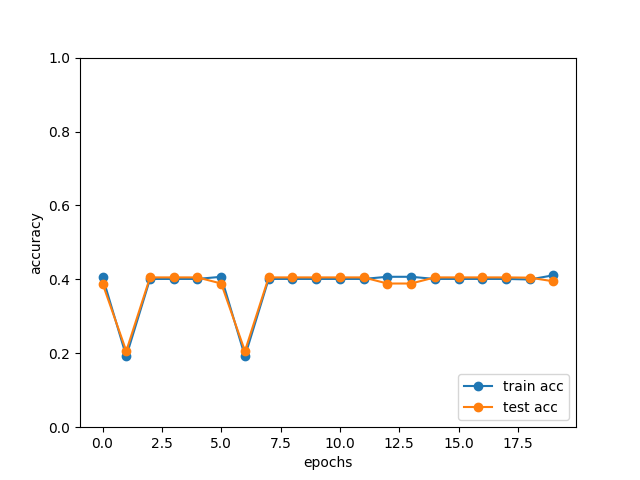
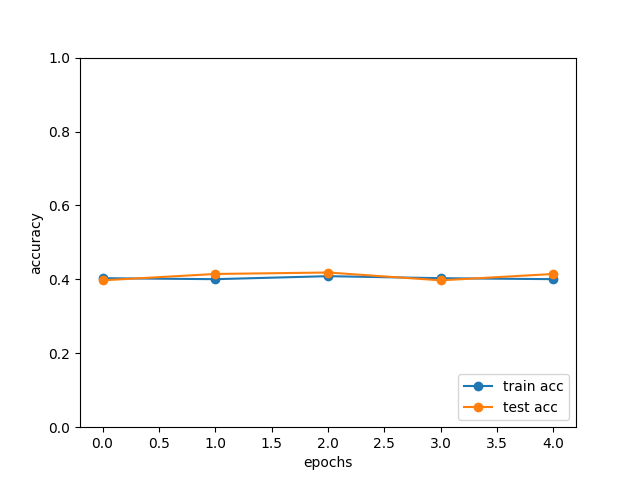
Add under 60%

diff --git a/Nakka0925/train_neuralnet.py b/Nakka0925/train_neuralnet.py
@@ -1,4 +1,5 @@
 # coding: utf-8
+from cgi import test
 import sys, os
 import time
 from cv2 import THRESH_TRIANGLE
@@ -10,6 +11,7 @@ from datasets import data_gain
 import matplotlib.pyplot as plt
 #from mnist import load_mnist
 from two_layer_net import TwoLayerNet
+from common.optimizer import SGD, Adam
 
 # データの読み込み
 #(x_train, t_train), (x_test, t_test) = load_mnist(normalize=True, one_hot_label=True)
@@ -17,7 +19,9 @@ file_list, label_list = data_gain()
 
 file_list = np.array(file_list)
 label_list = np.array(label_list)
-#print(file_list.shape)
+file_list = file_list.reshape(7550, 36864)
+
+print(file_list.shape)
 
 #0.0 ~ 1.0 に正規化
 file_list = [file.astype(float)/255.0 for file in file_list]
@@ -29,11 +33,14 @@ t_train = np.array(t_train)
 x_test = np.array(x_test)
 t_test = np.array(t_test)
 
-network = TwoLayerNet(input_size=36864, hidden_size=50, output_size=3)
+print(t_train[:30])
 
-epoch = 20
 
-learning_rate = 0.1
+network = TwoLayerNet(input_size=36864, hidden_size=100, output_size=3)
+
+epoch = 30
+
+learning_rate = 0.01
 
 train_loss_list = []
 train_acc_list = []
@@ -49,10 +56,15 @@ for i in range(epoch):
     #grad = network.numerical_gradient(x_batch, t_batch)
     grad = network.gradient(x_train, t_train)
     
-    # 更新
-    for key in ('W1', 'b1', 'W2', 'b2'):
+    """
+     更新
+    #for key in ('W1', 'b1', 'W2', 'b2'):
         network.params[key] -= learning_rate * grad[key]
-    
+    """
+
+    test = Adam()
+
+    network.params = test.update(network.params, grad)
 
     #if i % train_size == 0:
     train_acc = network.accuracy(x_train, t_train)
@@ -76,7 +88,7 @@ plt.xlabel("epochs")
 plt.ylabel("accuracy")
 plt.ylim(0, 1.0)
 plt.legend(loc='lower right')
-plt.savefig("accuracy_nonbath.png")
+plt.savefig("accuracy_flat.png")
 
 plt.clf()
 
@@ -85,4 +97,4 @@ x = np.arange(len(train_loss_list))
 plt.plot(x, train_loss_list, label='train loss')
 plt.xlabel("epochs")
 plt.ylabel("loss")
-plt.savefig("loss_nonbach.png")
+plt.savefig("loss_flat.png")

diff --git a/Nakka0925/test.py b/Nakka0925/test.py
@@ -1,0 +1,51 @@
+# coding: utf-8
+import os
+import sys
+sys.path.append(os.pardir)  # 親ディレクトリのファイルをインポートするための設定
+import numpy as np
+import matplotlib.pyplot as plt
+from common.multi_layer_net_extend import MultiLayerNetExtend
+from common.trainer import Trainer
+from sklearn.model_selection import train_test_split
+from datasets import data_gain
+
+file_list, label_list = data_gain()
+
+file_list = np.array(file_list)
+label_list = np.array(label_list)
+file_list = file_list.reshape(7550, 36864)
+
+#0.0 ~ 1.0 に正規化
+file_list = [file.astype(float)/255.0 for file in file_list]
+
+x_train, x_test, t_train, t_test = train_test_split(file_list, label_list, test_size=0.2)
+
+x_train = np.array(x_train)
+t_train = np.array(t_train)
+x_test = np.array(x_test)
+t_test = np.array(t_test)
+
+# Dropuoutの有無、割り合いの設定 ========================
+use_dropout = True  # Dropoutなしのときの場合はFalseに
+dropout_ratio = 0.2
+# ====================================================
+
+network = MultiLayerNetExtend(input_size=36864, hidden_size_list=[100, 100, 100, 100, 100, 100],
+                              output_size=3, use_dropout=use_dropout, dropout_ration=dropout_ratio)
+trainer = Trainer(network, x_train, t_train, x_test, t_test,
+                  epochs=10, mini_batch_size=100,
+                  optimizer='sgd', optimizer_param={'lr': 0.01}, verbose=True)
+trainer.train()
+
+train_acc_list, test_acc_list = trainer.train_acc_list, trainer.test_acc_list
+
+# グラフの描画==========
+markers = {'train': 'o', 'test': 's'}
+x = np.arange(len(train_acc_list))
+plt.plot(x, train_acc_list, marker='o', label='train', markevery=10)
+plt.plot(x, test_acc_list, marker='s', label='test', markevery=10)
+plt.xlabel("epochs")
+plt.ylabel("accuracy")
+plt.ylim(0, 1.0)
+plt.legend(loc='lower right')
+plt.savefig("accuracy_test.png")

diff --git a/Nakka0925/common/optimizer.py b/Nakka0925/common/optimizer.py
@@ -11,6 +11,8 @@ class SGD:
     def update(self, params, grads):
         for key in params.keys():
             params[key] -= self.lr * grads[key] 
+        
+        return params
 
 
 class Momentum:
@@ -72,6 +74,8 @@ class AdaGrad:
         for key in params.keys():
             self.h[key] += grads[key] * grads[key]
             params[key] -= self.lr * grads[key] / (np.sqrt(self.h[key]) + 1e-7)
+        
+     
 
 
 class RMSprop:
@@ -128,3 +132,5 @@ class Adam:
             #unbias_m += (1 - self.beta1) * (grads[key] - self.m[key]) # correct bias
             #unbisa_b += (1 - self.beta2) * (grads[key]*grads[key] - self.v[key]) # correct bias
             #params[key] += self.lr * unbias_m / (np.sqrt(unbisa_b) + 1e-7)
+
+        return params

diff --git a/Nakka0925/common/functions.py b/Nakka0925/common/functions.py
@@ -47,6 +47,9 @@ def cross_entropy_error(y, t):
         t = t.argmax(axis=1)
              
     batch_size = y.shape[0]
+    #np.set_printoptions(precision=5, floatmode='fixed')
+    #print(y[:5])
+
     return -np.sum(np.log(y[np.arange(batch_size), t] + 1e-7)) / batch_size
 
 
